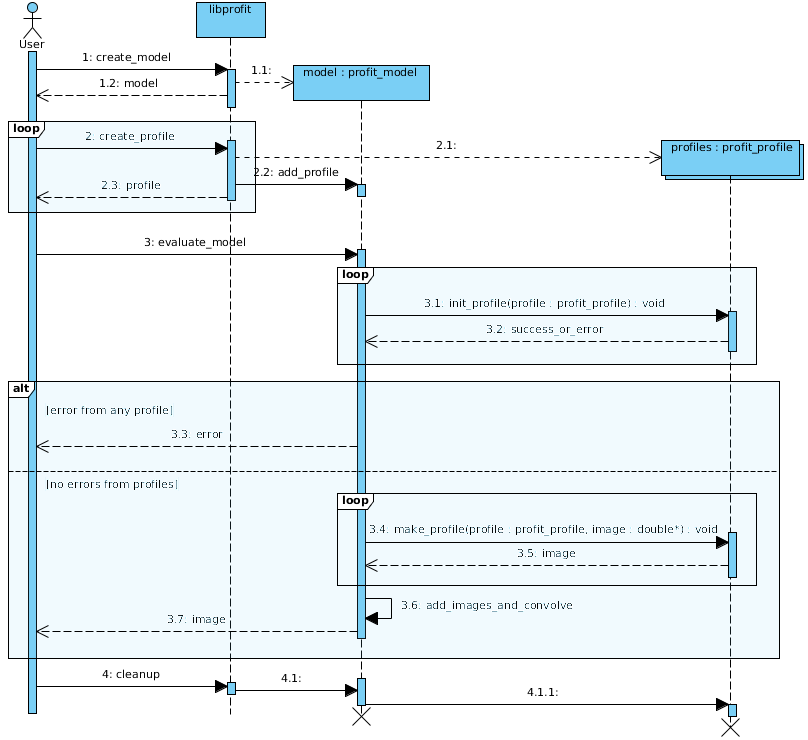
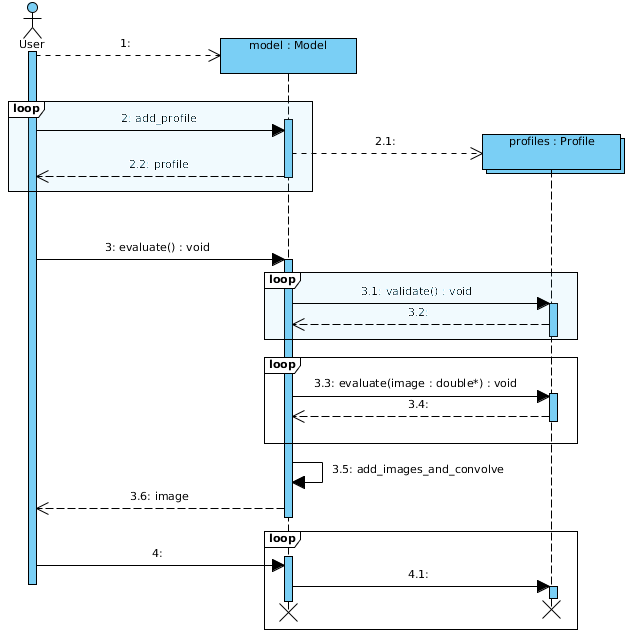
Updating documentation figures

diff --git a/docs/api.rst b/docs/api.rst
@@ -11,6 +11,10 @@ the model class (:class:`Model`)
 and the base profile class (:class:`Profile`).
 We introduce the base profile first, then the model.
 
+As a small reference, see the following class diagram.
+
+.. image:: images/types.png
+
 Exceptions
 ----------
 

diff --git a/docs/usage.rst b/docs/usage.rst
@@ -83,3 +83,7 @@ The basic usage pattern then is as follows:
 
 	 delete model;
 	 // If declared as a variable of the stack there's no need to delete it
+
+To illustrate this process, refer to the following figure:
+
+.. image:: images/evaluation.png

diff --git a/docs/index.rst b/docs/index.rst
@@ -14,7 +14,6 @@ libprofit
    getting.rst
    usage.rst
    coordinates.rst
-   structure.rst
    profiles.rst
    new_profile.rst
    bindings.rst

diff --git a/docs/structure.rst b/docs/structure.rst
@@ -1,6 +1,3 @@
 Model and profiles
 ==================
 
-.. image:: images/types.png
-
-.. image:: images/evaluation.png
